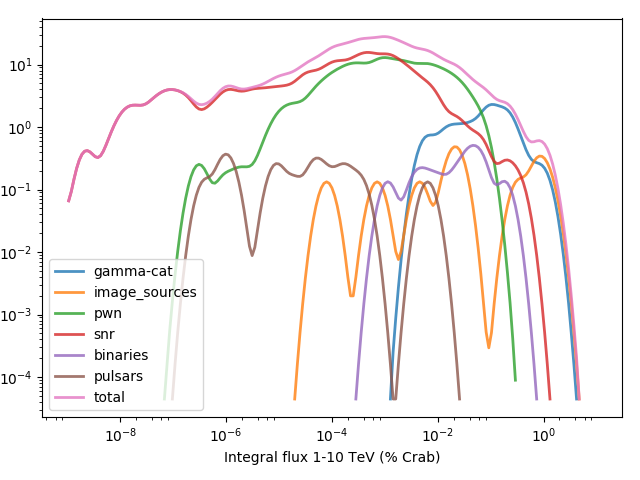
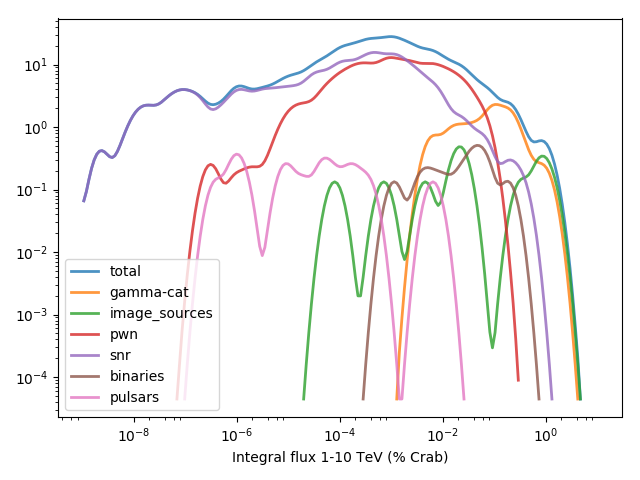
now i like

diff --git a/sky_model_checks/source_parameter_distributions.py b/sky_model_checks/source_parameter_distributions.py
@@ -38,6 +38,12 @@ class Histogram:
         vals = np.histogram(points, bins=bins)[0]
         return cls(bins=bins, vals=vals)
 
+    def copy(self):
+        return self.__class__(
+            bins=self.bins.copy(),
+            vals=self.vals.copy(),
+        )
+
     @property
     def bin_centers(self):
         return 0.5 * (self.bins[:-1] + self.bins[1:])
@@ -85,6 +91,9 @@ class Histogram:
 class HistogramStack:
     def __init__(self, hists=None):
         self.hists = hists if hists else []
+
+    def copy(self):
+        return [h.copy() for h in self.hists]
 
     def add(self, hist):
         self.hists.append(hist)
@@ -500,9 +509,7 @@ class GPSSkyModel:
         log.info('Writing {}'.format(filename))
         fig.savefig(filename)
 
-    def plot_logn_logs(self):
-        fig, ax = plt.subplots()
-
+    def get_logn_logs(self):
         crab_1_10 = CrabSpectrum().model.integral(1 * u.TeV, 10 * u.TeV).to('cm-2 s-1').value
         bins = np.logspace(-9, 1, 200)
 
@@ -511,13 +518,18 @@ class GPSSkyModel:
             table = component['table']
             points = table['flux_1_10'] / crab_1_10
             hist = Histogram.from_points(bins=bins, points=points)
-            hist = hist.smooth(sigma=3)
-            # hist = hist.normalise(method='int log', value=1)
-            hist.plot_smooth(ax, label=component['tag'], alpha=0.8, lw=2)
             hists.append(hist)
 
-        hists = HistogramStack(hists)
-        hists.total.plot_smooth(ax, label='total', alpha=0.8, lw=2)
+        return HistogramStack(hists)
+
+    def plot_logn_logs(self):
+        fig, ax = plt.subplots()
+
+        hists = self.get_logn_logs()
+        kwargs = dict(alpha=0.8, lw=2)
+        hists.total.smooth(sigma=3).plot_smooth(ax, label='total', **kwargs)
+        for tag, hist in zip(self.tags, hists.hists):
+            hist.smooth(sigma=3).plot_smooth(ax, label=tag, **kwargs)
 
         ax.set_xlabel('Integral flux 1-10 TeV (% Crab)')
         ax.semilogx()
@@ -528,6 +540,7 @@ class GPSSkyModel:
         fig.savefig(filename)
 
         ax.loglog()
+        fig.tight_layout()
         filename = 'ctadc_skymodel_gps_sources_logn_logs_diff_logscale.png'
         log.info('Writing {}'.format(filename))
         fig.savefig(filename)
